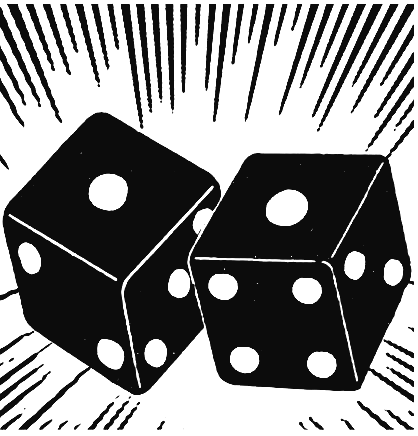
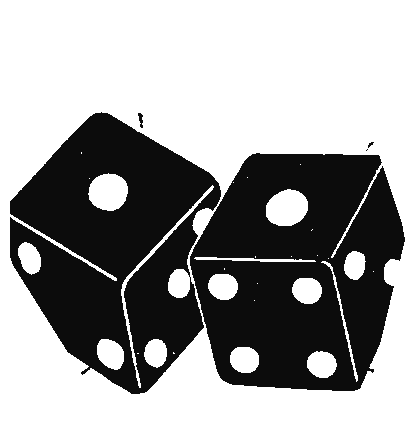
style: make skeletons watermark span full width at bottom with higher opacity; extract only dice cubes and position absolute bottom-left in contact section

diff --git a/styles.css b/styles.css
@@ -112,6 +112,21 @@ button { font-family: inherit; cursor: pointer; }
   min-height: 100dvh;
   padding: var(--frame);
   flex-direction: column;
+  position: relative;
+  z-index: 1;
+}
+#home::before {
+  content: "";
+  position: absolute;
+  left: 0;
+  right: 0;
+  bottom: 0;
+  height: clamp(280px, 35vh, 480px);
+  background: url('assets/motifs/calaveras.png') no-repeat bottom center;
+  background-size: cover;
+  opacity: 0.35;
+  z-index: -2;
+  pointer-events: none;
 }
 
 .sheet {
@@ -443,21 +458,6 @@ button { font-family: inherit; cursor: pointer; }
 .teaser {
   border-top: 1px solid var(--rule-strong);
   padding-top: clamp(1.4rem, 3vh, 2.2rem);
-  position: relative;
-  z-index: 1;
-}
-.teaser::before {
-  content: "";
-  position: absolute;
-  top: 0;
-  left: 0;
-  right: 0;
-  bottom: 0;
-  background: url('assets/motifs/calaveras.png') no-repeat center;
-  background-size: contain;
-  opacity: 0.08;
-  z-index: -1;
-  pointer-events: none;
 }
 .teaser-lead {
   font-size: clamp(1.1rem, 2.2vw, 1.6rem);
@@ -851,13 +851,20 @@ body[data-route="home"] .pager { display: none; }
   gap: clamp(2rem, 5vw, 4.5rem);
   align-items: start;
 }
+#contacto .section {
+  position: relative;
+}
 .contact-intro p { margin: 0; max-width: 46ch; color: var(--ink-70); }
 .contact-motif {
-  margin-top: clamp(1.5rem, 4vh, 3rem);
-  opacity: 0.85;
+  position: absolute;
+  left: -35px;
+  bottom: -45px;
+  z-index: -1;
+  opacity: 0.65;
+  pointer-events: none;
 }
 .contact-motif img {
-  max-width: 220px;
+  width: clamp(220px, 22vw, 360px);
   height: auto;
   display: block;
 }
